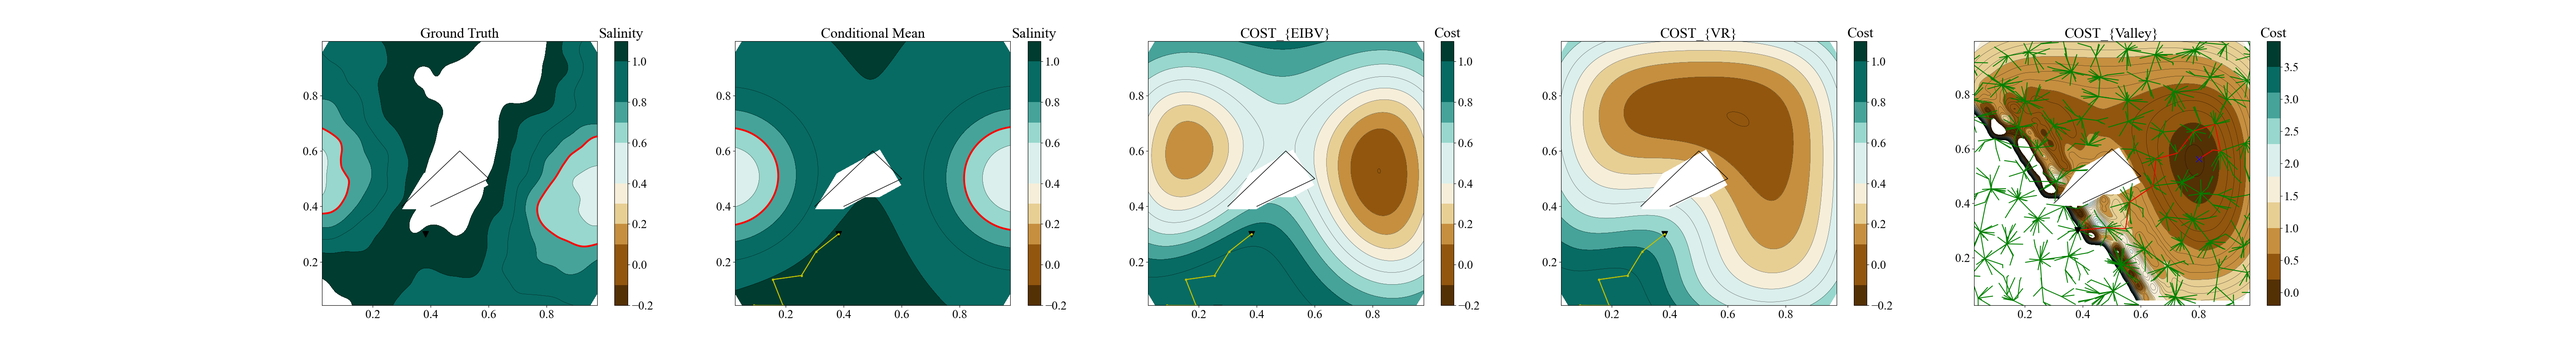
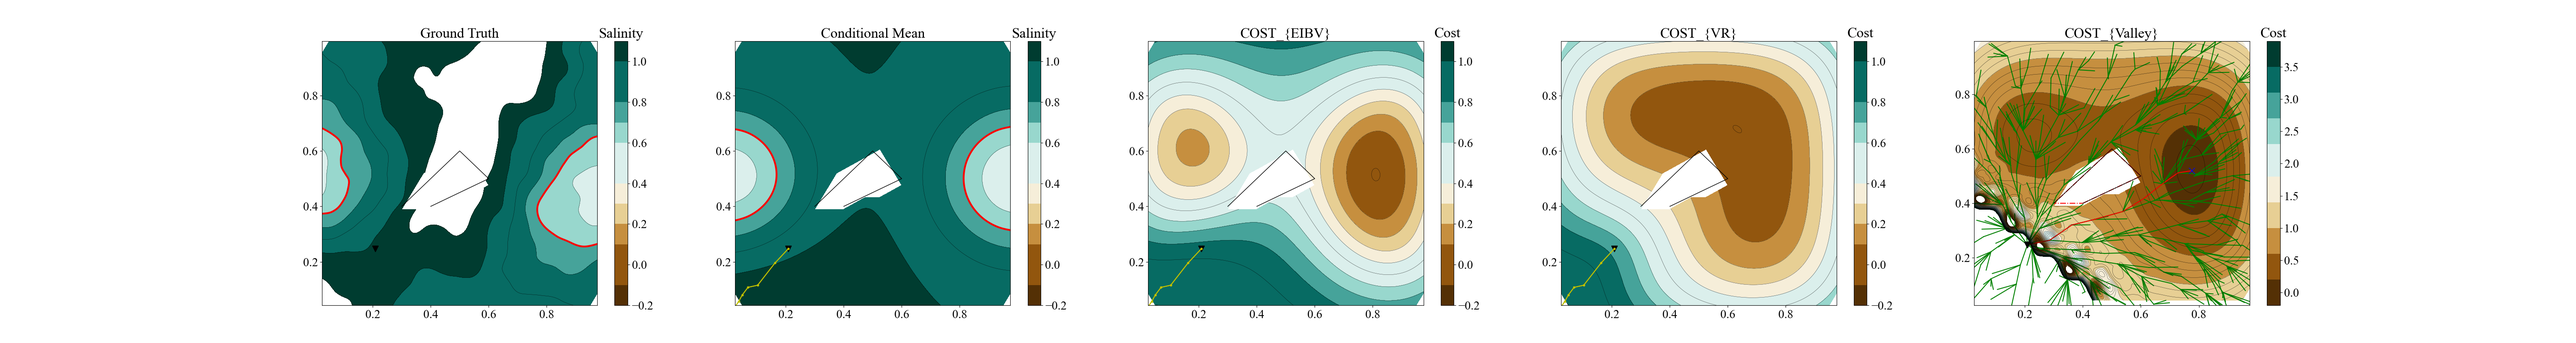
Working_squre

diff --git a/Simulation_2DSquare/Simulator/Simulator.py b/Simulation_2DSquare/Simulator/Simulator.py
@@ -50,7 +50,7 @@ class Simulator:
                                    polygon_obstacles=self.polygon_obstacles,
                                    goal_sample_rate=GOAL_SAMPLE_RATE, step_size=STEPSIZE,
                                    step_size_lawnmower=STEPSIZE_LAWNMOWER, maximum_iteration=MAXITER_EASY,
-                                   distance_neighbour_radar=DISTANCE_NEIGHBOUR+.02,
+                                   distance_neighbour_radar=DISTANCE_NEIGHBOUR_RADAR,
                                    distance_tolerance=DISTANCE_TOLERANCE, budget=self.budget, threshold=THRESHOLD)
         self.knowledge.mu_prior = self.mu_prior
         self.gp = GPKernel(self.knowledge)
@@ -269,24 +269,34 @@ class Simulator:
         ind_min_cost = np.argmin(self.gp.cost_valley)
         ending_loc = self.get_location_from_ind(ind_min_cost)
 
+        self.ind_sample = get_ind_at_location2d_xy(self.knowledge.grid, self.current_location)
+
         for i in range(NUM_STEPS):
             print("Step: ", i)
             t1 = time.time()
+            self.knowledge = Sampler(self.knowledge, self.knowledge.mu_truth, self.ind_sample).Knowledge
+
             if not self.knowledge.gohome:
                 self.knowledge.ending_location = ending_loc
                 self.knowledge.starting_location = self.current_location
+                # self.knowledge.starting_location = Location(.75, .1)
+                # self.knowledge.ending_location = Location(.1, .75)
+                # self.rrtstar = RRTStar(self.knowledge)
+                # self.rrtstar.expand_trees()
+                # self.rrtstar.get_shortest_trajectory()
+                # self.rrtstar.plot_tree()
+                # plt.scatter(self.knowledge.grid[:, 0], self.knowledge.grid[:, 1], c=self.knowledge.cost_valley,
+                #             cmap=CMAP,
+                #             vmin=0, vmax=4)
+                # plt.show()
+                # break
                 self.rrtstar = RRTStar(self.knowledge)
-                self.rrtstar.expand_trees()
-                self.rrtstar.get_shortest_trajectory()
-                if len(self.rrtstar.trajectory) <= 2:
-                    self.rrtstar.maximum_iteration = MAXITER_HARD
-                    self.rrtstar.expand_trees()
-                    self.rrtstar.get_shortest_trajectory()
-                self.path_minimum_cost = self.rrtstar.trajectory
+                self.next_location = self.rrtstar.get_next_waypoint()
+                # self.path_minimum_cost = self.rrtstar.trajectory
                 t2 = time.time()
                 print("Path planning takes: ", t2 - t1)
                 self.plot_knowledge(i, foldername)
-                self.next_location = Location(self.path_minimum_cost[-2, 0], self.path_minimum_cost[-2, 1])
+                # self.next_location = Location(self.path_minimum_cost[-2, 0], self.path_minimum_cost[-2, 1])
             else:
                 if self.waypoint_return_counter == 0:
                     print("Compute route home only here once!")
@@ -308,12 +318,13 @@ class Simulator:
             print("Budget left: ", self.budget)
             print("Distance travelled: ", self.distance_travelled)
 
-            ind_F = get_ind_at_location2d_xy(self.knowledge.grid, self.current_location)
-            F = getFVector(ind_F, self.grid.shape[0])
-            self.knowledge.mu_cond, self.knowledge.Sigma_cond = update_GP_field(self.knowledge.mu_cond,
-                                                                                self.knowledge.Sigma_cond, F,
-                                                                                self.knowledge.R,
-                                                                                F @ self.knowledge.mu_truth)
+            self.ind_sample = get_ind_at_location2d_xy(self.knowledge.grid, self.current_location)
+            # F = getFVector(ind_F, self.grid.shape[0])
+
+            # self.knowledge.mu_cond, self.knowledge.Sigma_cond = update_GP_field(self.knowledge.mu_cond,
+            #                                                                     self.knowledge.Sigma_cond, F,
+            #                                                                     self.knowledge.R,
+            #                                                                     F @ self.knowledge.mu_truth)
 
             self.gp.get_cost_valley(self.current_location, self.previous_location, self.goal_location, self.budget)
             ind_min_cost = np.argmin(self.knowledge.cost_valley)
@@ -321,7 +332,7 @@ class Simulator:
 
             self.previous_location = self.current_location
             self.trajectory.append(self.current_location)
-            break
+            # break
 
 
     def get_route_home(self, stepsize=None):
@@ -375,13 +386,13 @@ class Simulator:
         self.rrtstar.plot_tree()
         cost_valley = self.knowledge.cost_valley
         # cost_valley[cost_valley == np.inf] = PENALTY # To avoid plotting interpolation
-        plotf_vector_triangulated(self.knowledge.grid, cost_valley, "COST VALLEY", cmap=CMAP, vmin=-.2, vmax=4, cbar_title="Cost",
-                     colorbar=True, knowledge=self.knowledge, stepsize=.1)
+        # plotf_vector_triangulated(self.knowledge.grid, cost_valley, "COST VALLEY", cmap=CMAP, vmin=-.2, vmax=4, cbar_title="Cost",
+        #              colorbar=True, knowledge=self.knowledge, stepsize=.1)
 
-        # plt.scatter(self.knowledge.grid[:, 1],
-        #             self.knowledge.grid[:, 0],
-        #             c=self.knowledge.cost_valley, cmap=CMAP,
-        #             vmin=0, vmax=4, alpha=.6, s=105)
+        plt.scatter(self.knowledge.grid[:, 1],
+                    self.knowledge.grid[:, 0],
+                    c=self.knowledge.cost_valley, cmap=CMAP,
+                    vmin=0, vmax=4, alpha=.6, s=105)
         plt.plot(self.knowledge.polygon_border[:, 0], self.knowledge.polygon_border[:, 1], 'k-', linewidth=1)
         for i in range(len(self.knowledge.polygon_obstacles)):
             plt.plot(self.knowledge.polygon_obstacles[:, 0], self.knowledge.polygon_obstacles[:, 1], 'k-', linewidth=1)
@@ -396,7 +407,7 @@ class Simulator:
 
 
 if __name__ == "__main__":
-    a = Simulator(steps=100, random_seed=1)
+    a = Simulator(steps=100, random_seed=2)
     a.plot_synthetic_field()
     # a.run_2d()
     # a.run_lawn_mower()

diff --git a/Simulation_2DSquare/PlanningStrategies/RRTStar.py b/Simulation_2DSquare/PlanningStrategies/RRTStar.py
@@ -29,6 +29,16 @@ class RRTStar:
 
         self.counter_fig = 0
 
+    def get_next_waypoint(self):
+        self.expand_trees()
+        self.get_shortest_trajectory()
+        self.path_minimum_cost = self.trajectory
+        if len(self.trajectory) <= 2:
+            self.maximum_iteration = MAXITER_HARD
+            self.expand_trees()
+            self.get_shortest_trajectory()
+        return Location(self.path_minimum_cost[-2, 0], self.path_minimum_cost[-2, 1])
+
     def expand_trees(self):
         self.nodes.append(self.starting_node)
         for i in range(self.maximum_iteration):
@@ -36,7 +46,6 @@ class RRTStar:
                 new_location = self.knowledge.ending_location
             else:
                 if self.knowledge.budget_ellipse_b < BUDGET_ELLIPSE_B_MARGIN_Tree:
-                    # print("Here comes new sampling distribution!")
                     new_location = self.get_new_location_within_budget_ellipse()
                 else:
                     new_location = self.get_new_location()
@@ -133,29 +142,20 @@ class RRTStar:
             else:
                 distance_between_nodes.append(self.get_distance_between_nodes(self.nodes[i], node_current))
         ind_neighbours = np.where(np.array(distance_between_nodes) <= self.distance_neighbour_radar)[0]
-        print("distance neighbour nodes: ", distance_between_nodes)
-        print("Neighbour nodes:  ")
-        for i in range(len(ind_neighbours)):
-            self.print_node(self.nodes[ind_neighbours[i]])
         return ind_neighbours
-
-    def print_node(self, node):
-        print("Node location: ", node.location.x, node.location.y)
-        print("Node cost: ", node.cost)
-        print("Node parent: ", node.parent)
-        print("Node knowledge: ", node.knowledge)
 
     def get_cost_between_nodes(self, node1, node2):
         cost = (node1.cost +
-                self.get_distance_between_nodes(node1, node2))
+                self.get_distance_between_nodes(node1, node2) +
+                self.get_cost_from_cost_valley(node1, node2))
                 # self.get_cost_from_cost_valley(node1, node2))
         return cost
 
     def get_cost_from_cost_valley(self, node1, node2):
-        F1 = self.knowledge.get_ind_F(node1.location)
-        F2 = self.knowledge.get_ind_F(node2.location)
-        cost1 = self.knowledge.cost_valley[F1]
-        cost2 = self.knowledge.cost_valley[F2]
+        indF1 = get_ind_at_location2d_xy(self.knowledge.grid, node1.location)
+        indF2 = get_ind_at_location2d_xy(self.knowledge.grid, node2.location)
+        cost1 = self.knowledge.cost_valley[indF1]
+        cost2 = self.knowledge.cost_valley[indF2]
         cost_total = ((cost1 + cost2) / 2 * self.get_distance_between_nodes(node1, node2))
         return cost_total
 
@@ -200,10 +200,11 @@ class RRTStar:
 
     def plot_tree(self):
         # plt.figure()
-        # if np.any(self.obstacles):
-        #     for i in range(len(self.obstacles)):
-        #         obstacle = np.append(self.obstacles[i], self.obstacles[i][0, :].reshape(1, -1), axis=0)
-        #         plt.plot(obstacle[:, 0], obstacle[:, 1], 'r-.')
+        if np.any(self.knowledge.polygon_obstacles):
+            for i in range(len(self.knowledge.polygon_obstacles)):
+                obstacle = np.append(self.knowledge.polygon_obstacles[i],
+                                     self.knowledge.polygon_obstacles[i][0, :].reshape(1, -1), axis=0)
+                plt.plot(obstacle[:, 0], obstacle[:, 1], 'r-.')
 
         for node in self.nodes:
             if node.parent is not None:

diff --git a/Simulation_2DSquare/Test/test_rrt*.py b/Simulation_2DSquare/Test/test_rrt*.py
@@ -4,7 +4,7 @@ Author: Yaolin Ge
 Contact: yaolin.ge@ntnu.no
 Date: 2022-03-07
 """
-
+import matplotlib.pyplot as plt
 
 from GOOGLE.Simulation_2DSquare.Plotting.plotting_func import *
 from GOOGLE.Simulation_2DSquare.GPKernel.GPKernel import *
@@ -13,7 +13,7 @@ from GOOGLE.Simulation_2DSquare.PlanningStrategies.RRTStar import RRTStar
 from GOOGLE.Simulation_2DSquare.Tree.Knowledge import Knowledge
 from GOOGLE.Simulation_2DSquare.Tree.Location import Location
 
-BUDGET = 1
+BUDGET = 5
 
 
 class PathPlanner:
@@ -28,7 +28,8 @@ class PathPlanner:
         self.knowledge = Knowledge(grid=self.grid,
                                    starting_location=self.starting_location, ending_location=self.ending_location,
                                    polygon_border=np.array(BORDER), polygon_obstacles=np.array(OBSTACLES),
-                                   goal_sample_rate=GOAL_SAMPLE_RATE, step_size=STEPSIZE, budget=BUDGET)
+                                   goal_sample_rate=GOAL_SAMPLE_RATE, step_size=STEPSIZE, budget=BUDGET,
+                                   distance_neighbour_radar=DISTANCE_NEIGHBOUR_RADAR, threshold=THRESHOLD)
         self.knowledge.mu_prior = self.mu_prior
         self.gp = GPKernel(self.knowledge)
         self.gp.get_cost_valley(self.starting_location, self.starting_location, self.ending_location, BUDGET)
@@ -42,6 +43,9 @@ class PathPlanner:
         t2 = time.time()
         print("Path planning takes: ", t2 - t1)
         self.rrt.plot_tree()
+        plt.scatter(self.knowledge.grid[:, 0], self.knowledge.grid[:, 1], c=self.knowledge.cost_valley, cmap=CMAP,
+                    vmin=0, vmax=4)
+        plt.colorbar()
         plt.show()
 
 
@@ -51,5 +55,8 @@ if __name__ == "__main__":
     p = PathPlanner(starting_loc, ending_loc)
     p.run()
 
+#%%
 
-
+plt.scatter(p.knowledge.grid[:, 0], p.knowledge.grid[:, 1], c=p.knowledge.cost_, cmap=CMAP)
+plt.colorbar()
+plt.show()

diff --git a/Simulation_2DSquare/GPKernel/GPKernel.py b/Simulation_2DSquare/GPKernel/GPKernel.py
@@ -16,12 +16,12 @@ class GPKernel:
         self.grid = self.knowledge.grid
         self.x_vector = vectorise(self.grid[:, 0])
         self.y_vector = vectorise(self.grid[:, 1])
-        self.mu_prior = self.knowledge.mu_prior
         self.polygon_obstacles_shapely = self.knowledge.polygon_obstacles_shapely
         self.get_Sigma_prior()
         self.get_ground_truth()
         self.knowledge.mu_cond = self.knowledge.mu_prior
         self.knowledge.Sigma_cond = self.knowledge.Sigma_prior
+        self.knowledge.R = self.R
         self.get_obstacle_field()
         self.cost_direction = None
         self.cost_vr = None
@@ -83,10 +83,10 @@ class GPKernel:
         t1 = time.time()
         self.cost_eibv = []
         for i in range(self.grid.shape[0]):
-            F = np.zeros([1, self.grid.shape[0]])
-            F[0, i] = True
+            F = getFVector(i, self.grid.shape[0])
             self.cost_eibv.append(get_eibv_1d(self.knowledge.threshold, self.knowledge.mu_cond,
                                               self.knowledge.Sigma_cond, F, self.R))
+        print(self.cost_eibv)
         self.cost_eibv = normalise(np.array(self.cost_eibv))
         t2 = time.time()
         print("EIBV field takes: ", t2 - t1)

diff --git a/Simulation_2DSquare/Simulator/Sampler.py b/Simulation_2DSquare/Simulator/Sampler.py
@@ -41,7 +41,7 @@ class Sampler:
                                                                          squared=False))
         self.knowledge.expected_variance.append(np.sum(np.diag(self.knowledge.Sigma_cond)))
         self.knowledge.integrated_bernoulli_variance.append(eibv)
-        self.knowledge.distance_travelled.append(dist[0] + self.knowledge.distance_travelled[-1])
+        self.knowledge.distance_travelled.append(dist + self.knowledge.distance_travelled[-1])
 
     def getDistanceTravelled(self):
         dist_x = self.knowledge.grid[self.knowledge.ind_now, 0] - self.knowledge.grid[self.knowledge.ind_prev, 0]

diff --git a/Simulation_2DSquare/Config/Config.py b/Simulation_2DSquare/Config/Config.py
@@ -16,7 +16,7 @@ THRESHOLD = .7
 # ==
 
 # == RRTStar
-MAXITER_EASY = 500
+MAXITER_EASY = 600
 MAXITER_HARD = 600
 GOAL_SAMPLE_RATE = .01
 STEPSIZE = .1
